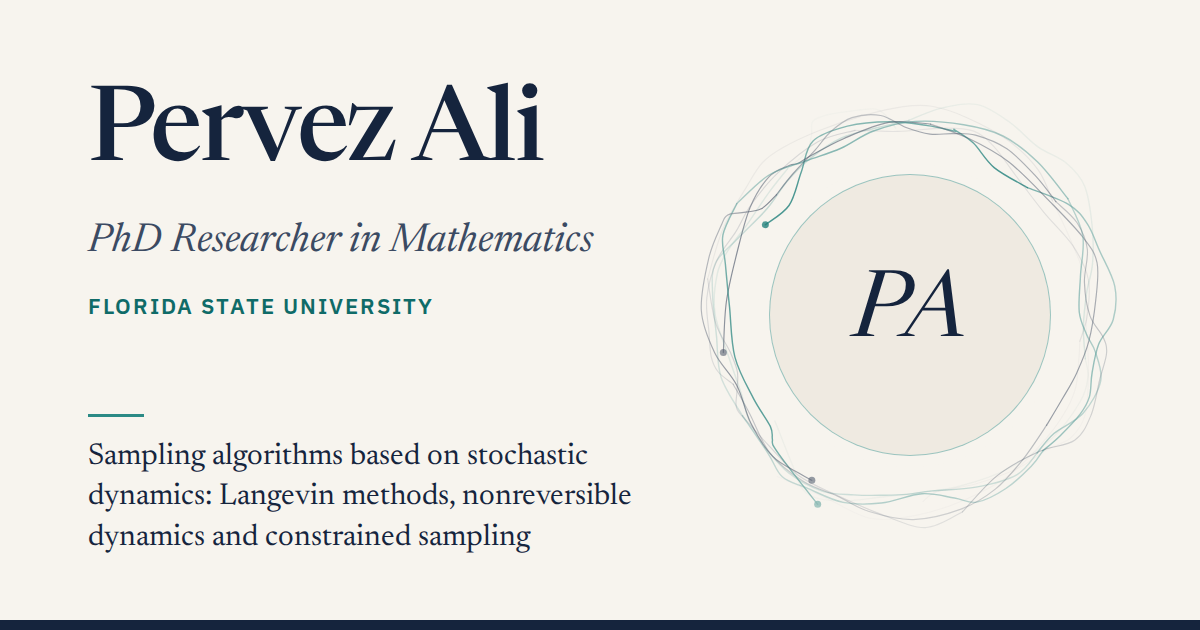
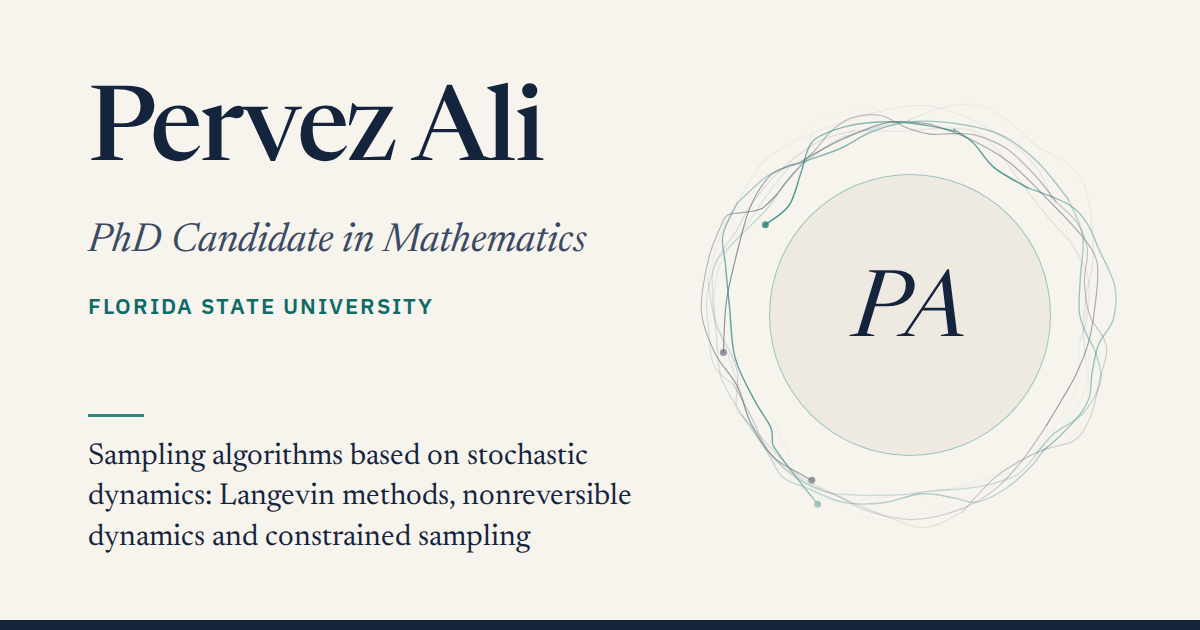
Protect email from scrapers, add personal line, use "PhD Candidate"
- Contact: show the email as "pa22g [at] fsu [dot] edu"; the whole address no
  longer appears in the page source. script.js builds the mailto link and gives
  the real address to the Copy button.
- About: add "Outside of research, I enjoy playing pickleball and cricket."
- Title: "PhD Candidate in Mathematics" in the introduction, search and
  link-preview text, and the link-preview image.

Claude-Session: https://claude.ai/code/session_019fYtK7MSm3jBREMPqDLvos

Changed region(s): [[0.1233, 0.3619, 0.4933, 0.4222]]

diff --git a/index.html b/index.html
@@ -22,7 +22,7 @@
 
 <!-- EDIT: page title and description (browser tab and search results) -->
 <title>Pervez Ali · Mathematics, Florida State University</title>
-<meta name="description" content="Pervez Ali is a PhD researcher in mathematics at Florida State University studying Langevin, nonreversible and constrained sampling algorithms.">
+<meta name="description" content="Pervez Ali is a PhD candidate in mathematics at Florida State University studying Langevin, nonreversible and constrained sampling algorithms.">
 <meta name="author" content="Pervez Ali">
 
 <!-- EDIT: website address and social-sharing preview (LinkedIn, Slack, X, etc.).
@@ -31,12 +31,12 @@
 <link rel="canonical" href="https://pervezali1.github.io/"><!-- address -->
 <meta property="og:type" content="website">
 <meta property="og:title" content="Pervez Ali · Mathematics, Florida State University">
-<meta property="og:description" content="PhD researcher studying sampling algorithms based on stochastic dynamics: Langevin methods, nonreversible dynamics and constrained sampling.">
+<meta property="og:description" content="PhD candidate studying sampling algorithms based on stochastic dynamics: Langevin methods, nonreversible dynamics and constrained sampling.">
 <meta property="og:url" content="https://pervezali1.github.io/"><!-- address -->
 <meta property="og:image" content="https://pervezali1.github.io/assets/images/social-card.png"><!-- address -->
 <meta property="og:image:width" content="1200">
 <meta property="og:image:height" content="630">
-<meta property="og:image:alt" content="Pervez Ali, PhD researcher in mathematics at Florida State University">
+<meta property="og:image:alt" content="Pervez Ali, PhD candidate in mathematics at Florida State University">
 <meta name="twitter:card" content="summary_large_image">
 
 <meta name="theme-color" content="#F7F4EE">
@@ -80,7 +80,7 @@
       <div class="hero-text">
         <!-- EDIT: name, title and university -->
         <h1 id="hero-name">Pervez Ali</h1>
-        <p class="hero-role">PhD Researcher in Mathematics</p>
+        <p class="hero-role">PhD Candidate in Mathematics</p>
         <p class="hero-affiliation">Florida State University</p>
 
         <!-- EDIT: short introduction (two or three plain sentences) -->
@@ -409,6 +409,7 @@
         <!-- EDIT: short biography (first person) -->
         <p>I am a PhD candidate in the Department of Mathematics at Florida State University, advised by Dr.&nbsp;Lingjiong Zhu, and a Fulbright Scholar. My research is on sampling algorithms based on stochastic dynamics, including Langevin methods, nonreversible dynamics and constrained sampling.</p>
         <p>I am also a Lecturer in Mathematics at Sukkur IBA University in Pakistan, where I taught from 2017 to 2022 and completed my MS in Mathematics. I have been on study leave from Sukkur IBA since July 2022. At Florida State, I have served as vice president of the SIAM Student Chapter.</p>
+        <p>Outside of research, I enjoy playing pickleball and cricket.</p>
       </div>
 
       <div class="about-facts">
@@ -524,10 +525,15 @@
         <header class="section-head">
           <h2 id="contact-title">Contact</h2>
         </header>
-        <!-- EDIT: email, address and profile links -->
+        <!-- EDIT: email, address and profile links.
+             To keep spam bots from collecting it, the email address never appears whole
+             in this file: it is shown as "user [at] domain" and stored in two parts
+             (data-email-user and data-email-domain). script.js joins them in the
+             visitor's browser to make the link and the Copy button work.
+             To change the address, edit both parts and the visible text. -->
         <p>Email is the best way to reach me.</p>
         <p class="contact-email">
-          <a id="email-address" href="mailto:pa22g@fsu.edu">pa22g@fsu.edu</a>
+          <a id="email-address" data-email-user="pa22g" data-email-domain="fsu.edu">pa22g [at] fsu [dot] edu</a>
           <button class="copy-button" type="button" data-copy="email-address" data-copy-name="Email address" aria-label="Copy email address" hidden>Copy</button>
         </p>
         <address class="contact-address">

diff --git a/script.js b/script.js
@@ -96,7 +96,8 @@
         window.clearTimeout(timer);
         timer = window.setTimeout(function () { button.textContent = label; }, 2500);
       };
-      copyText(target.textContent.trim()).then(function () {
+      var text = button.getAttribute('data-copy-value') || target.textContent.trim();
+      copyText(text).then(function () {
         button.textContent = 'Copied';
         announce(name + ' copied to the clipboard.');
         restore();
@@ -107,6 +108,17 @@
         restore();
       });
     });
+  });
+
+  /* ---------- Email link ----------
+     The address is stored in two parts in index.html so that spam bots reading
+     the page cannot collect it. Here it is joined to make a working link, and
+     handed to the Copy button. */
+  Array.prototype.forEach.call(document.querySelectorAll('[data-email-user]'), function (link) {
+    var address = link.getAttribute('data-email-user') + '@' + link.getAttribute('data-email-domain');
+    link.setAttribute('href', 'mailto:' + address);
+    var copyButton = document.querySelector('[data-copy="' + link.id + '"]');
+    if (copyButton) { copyButton.setAttribute('data-copy-value', address); }
   });
 
   /* ---------- 3. Download CV button ---------- */

diff --git a/styles.css b/styles.css
@@ -974,6 +974,8 @@ a:hover { color: var(--navy); text-decoration-thickness: 2px; }
   font-size: clamp(1.3rem, 2.6vw, 1.6rem);
   overflow-wrap: anywhere;
 }
+/* Before script.js runs (or without JavaScript) the address is plain text */
+.contact-email a:not([href]) { color: var(--navy); text-decoration: none; }
 .contact-address {
   margin-top: 1.25rem;
   font-style: normal;

diff --git a/README.md b/README.md
@@ -104,7 +104,7 @@ Most information appears only once, so you only need to change it in one place.
 
 | Information | Section of `index.html` |
 |---|---|
-| Name, "PhD Researcher in …", university | INTRODUCTION (`<h1>` and the two lines below it) |
+| Name, "PhD Candidate in …", university | INTRODUCTION (`<h1>` and the two lines below it) |
 | Introduction paragraph | INTRODUCTION, `class="hero-intro"` |
 | "Seeking postdoctoral opportunities starting …" | INTRODUCTION, `class="availability"` |
 | Research overview and the three themes | RESEARCH |
